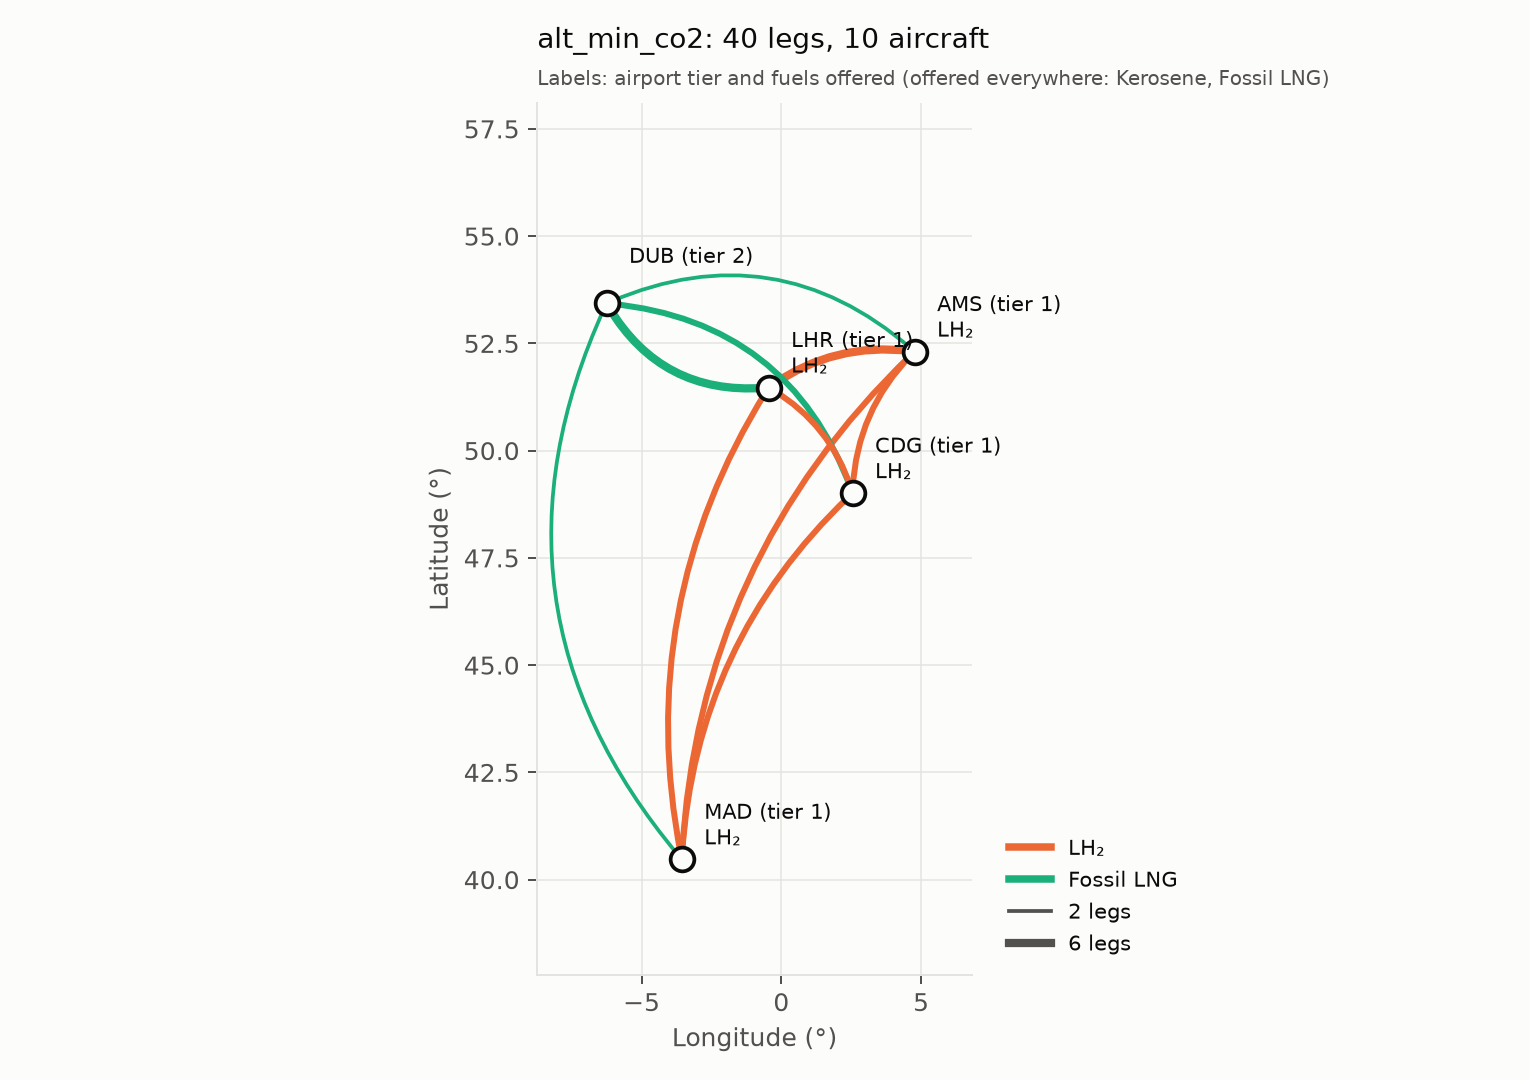
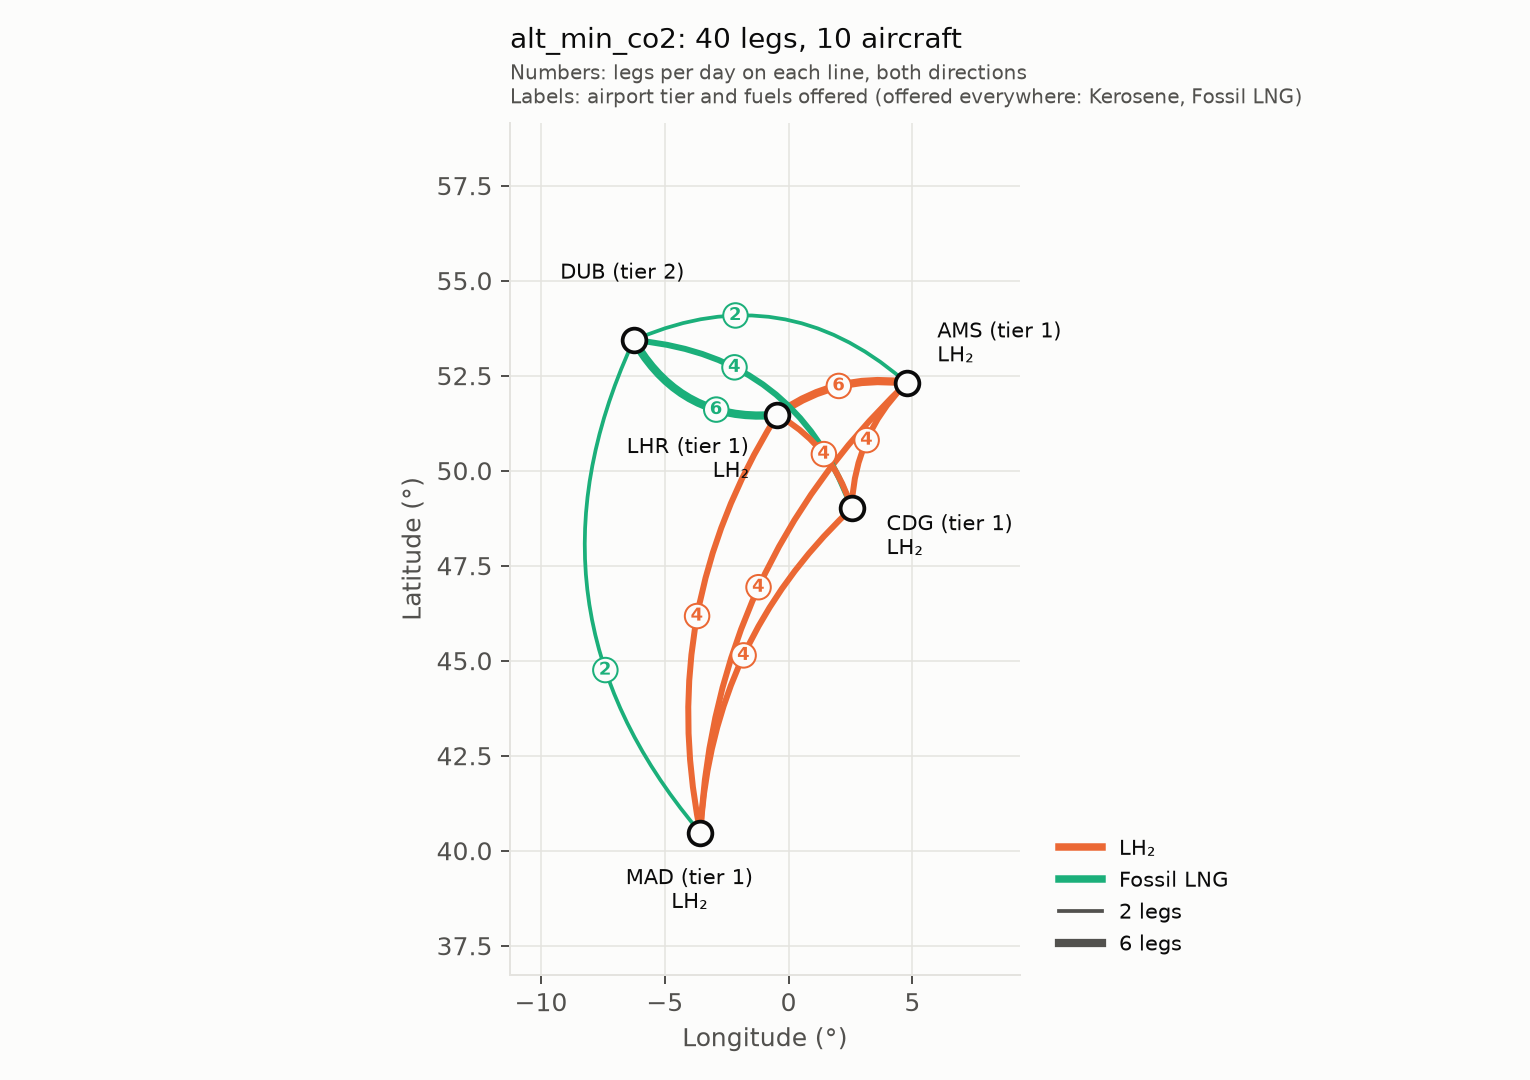
Split hourly cost, clearer figures, chains min-CO2 and sweep
- Hourly cost split into crew and maintenance per block hour (same for all
  types for now; LH2_MAINT_FACTOR ready for Hoelzen's +11%)
- Sweep chart shows each fuel separately; chains_carbon_200 gets a sweep;
  new chains_min_co2 scenario
- Network maps show legs per line; airport labels kept clear of lines
- Meeting figures in outputs/meeting_2026-11-05
- Spill test no longer depends on fuel prices
- Future work: capacity share rule, tankering with fuel bands, maintenance base

diff --git a/src/altfuel/plots.py b/src/altfuel/plots.py
@@ -12,6 +12,7 @@ from matplotlib.patches import FancyArrowPatch, Patch
 
 COLOURS = ["#2a78d6", "#eb6834", "#1baf7a", "#eda100", "#e87ba4", "#008300", "#6250d6", "#e34948"]
 BLACK, GREY, LIGHT_GREY, BACKGROUND = "#0b0b0b", "#52514e", "#e4e3df", "#fcfcfb"
+LABEL_DIRECTION = {"LHR": (-1, -0.7), "DUB": (-0.35, 1)}   # hand-placed for the dummy network
 UNITS = {"carbon_price": "USD per t CO₂", "yield_usd_per_pax_km": "USD per pax-km"}
 
 plt.rcParams.update({
@@ -41,24 +42,33 @@ def network_map(run):
     flown["pair"] = [tuple(sorted(p)) for p in zip(flown.origin, flown.destination)]
 
     fig, ax = plt.subplots(figsize=(8.5, 6))
+    lines = []
     for (pair, fuel), n in flown.groupby(["pair", "fuel"]).size().items():
         start = airports.loc[pair[0], ["lon", "lat"]].to_numpy()
         end = airports.loc[pair[1], ["lon", "lat"]].to_numpy()
         bend = 0.08 + 0.12 * fuels.index(fuel)     # so two fuels on one route don't overlap
         ax.add_patch(FancyArrowPatch(start, end, arrowstyle="-", color=colour[fuel], lw=0.6 + 0.45 * n,
                                      connectionstyle=f"arc3,rad={bend}"))
+        lines.append((start, end, bend, fuel, n))
     ax.scatter(airports.lon, airports.lat, s=90, c=BACKGROUND, edgecolors=BLACK, lw=1.5, zorder=3)
 
-    # Label each airport with its tier and the fuels it offers (except fuels offered everywhere)
+    # Label each airport with its tier and the fuels it offers (except fuels offered
+    # everywhere), on the side facing away from the middle of the network, where there
+    # are fewest lines. LABEL_DIRECTION overrides this for airports in the middle.
     everywhere = [f for f in fuels if run.airport_fuel.xs(f, level="fuel").available.all()]
+    middle = airports[["lon", "lat"]].mean().to_numpy()
     for station, airport in airports.iterrows():
         offered = [label[f] for f in fuels
                    if f not in everywhere and run.airport_fuel.loc[(station, f), "available"]]
+        away = np.array(LABEL_DIRECTION.get(station, [airport.lon, airport.lat] - middle), dtype=float)
+        away = away / np.hypot(*away)
+        ha = "center" if abs(away[0]) < 0.4 else ("left" if away[0] > 0 else "right")
         ax.annotate(f"{station} (tier {airport.tier})\n{' · '.join(offered)}", (airport.lon, airport.lat),
-                    xytext=(9, 6), textcoords="offset points", fontsize=8.5, zorder=4)
+                    xytext=14 * away, textcoords="offset points", fontsize=8.5, zorder=6,
+                    ha=ha, va="bottom" if away[1] >= 0 else "top", linespacing=1.1)
 
     ax.set_aspect(1 / np.cos(np.radians(airports.lat.mean())))
-    ax.margins(0.18)
+    ax.margins(x=0.4, y=0.25)
     ax.set_xlabel("Longitude (°)")
     ax.set_ylabel("Latitude (°)")
     add_grid(ax)
@@ -68,11 +78,28 @@ def network_map(run):
     ax.legend(handles=handles, loc="lower left", bbox_to_anchor=(1.04, 0), frameon=False, fontsize=8.5)
 
     ax.set_title(f"{run.scenario.name}: {run.kpis['legs_flown']} legs, {run.kpis['aircraft']} aircraft",
-                 loc="left", fontsize=11, pad=22)
+                 loc="left", fontsize=11, pad=30)
     note = f" (offered everywhere: {', '.join(label[f] for f in everywhere)})" if everywhere else ""
-    ax.text(0, 1.015, f"Labels: airport tier and fuels offered{note}", transform=ax.transAxes,
-            fontsize=8, color=GREY, va="bottom")
+    ax.text(0, 1.015, f"Numbers: legs per day on each line, both directions\n"
+                      f"Labels: airport tier and fuels offered{note}",
+            transform=ax.transAxes, fontsize=8, color=GREY, va="bottom")
     fig.tight_layout()
+
+    # Number of legs on each line, placed on its curve. The curves are bent in screen
+    # space, so positions are worked out there once the layout is final. Each fuel's
+    # number sits at a different point along the curve, so two fuels on a short route
+    # don't put their numbers on top of each other.
+    fig.canvas.draw()
+    to_screen, to_data = ax.transData, ax.transData.inverted()
+    for start, end, bend, fuel, n in lines:
+        a, b = to_screen.transform(start), to_screen.transform(end)
+        dx, dy = b - a
+        control = (a + b) / 2 + bend * np.array([dy, -dx])        # control point of the arc3 curve
+        t = 0.35 + 0.15 * (fuels.index(fuel) % 3)
+        point = (1 - t) ** 2 * a + 2 * (1 - t) * t * control + t ** 2 * b
+        ax.text(*to_data.transform(point), str(n), ha="center", va="center", fontsize=7,
+                color=colour[fuel], fontweight="bold", zorder=7,
+                bbox=dict(boxstyle="circle,pad=0.2", fc=BACKGROUND, ec=colour[fuel], lw=0.8))
     return fig
 
 
@@ -158,15 +185,20 @@ def scenario_comparison(runs):
     return fig
 
 
-def sweep_chart(sweep: pd.DataFrame, parameter: str, scenario_name: str):
-    """Share of legs not flown on kerosene, against the swept setting."""
+def sweep_chart(sweep: pd.DataFrame, parameter: str, scenario_name: str, fuels: pd.DataFrame):
+    """Share of legs flown on each fuel, against the swept setting."""
+    colour = fuel_colours(fuels)
     fig, ax = plt.subplots(figsize=(7, 4))
-    ax.plot(sweep[parameter], 100 * (1 - sweep["share_kerosene"]), color=COLOURS[1],
-            lw=2, marker="o", ms=8, mec=BACKGROUND, mew=2)
+    for fuel in colour:
+        share = sweep.get(f"share_{fuel}")
+        if share is not None and share.any():
+            ax.plot(sweep[parameter], 100 * share, color=colour[fuel], lw=2, marker="o", ms=7,
+                    mec=BACKGROUND, mew=2, label=fuels.label[fuel])
     unit = f" ({UNITS[parameter]})" if parameter in UNITS else ""
     ax.set_xlabel(parameter.replace("_", " ").capitalize() + unit)
-    ax.set_ylabel("Legs flown on alternative fuel (%)")
-    ax.set_ylim(0, 100)
+    ax.set_ylabel("Legs flown (%)")
+    ax.set_ylim(-3, 103)
+    ax.legend(frameon=False, fontsize=8.5)
     add_grid(ax)
     ax.set_title(f"Sweep of {parameter} ({scenario_name})", loc="left", fontsize=11)
     fig.tight_layout()

diff --git a/scripts/make_dummy_data.py b/scripts/make_dummy_data.py
@@ -34,6 +34,9 @@ FIRST_DEP, LAST_ARR = 390, 1350  # schedule window, minutes after midnight (06:3
 TIER = {"INT": 1, "MAJ": 2, "SMA": 3}   # placeholder until the tier 1-6 mapping is defined
 KER_PRICE_USD = 49.4e6    # new-delivery A320neo market value, IBA (Nov 2021)
 LH2_PRICE_FACTOR = 1.12   # +12% aircraft CAPEX, short-range LH2 aircraft (Hoelzen et al. 2022)
+CREW_PER_BLOCK_HOUR = 940          # USD, same for all types (from Hoelzen et al. 2022 salaries)
+MAINT_PER_BLOCK_HOUR = 2060        # USD, kerosene. Placeholder: keeps crew + maintenance at 3,000
+LH2_MAINT_FACTOR = 1.0             # same as kerosene for now; Hoelzen et al. 2022 give +11% (short-range)
 CRUISE_KMH = 830          # same for all types: Hoelzen et al. 2025 design Mach 0.78 for both
                           # kerosene and LH2 single-aisle designs; also used to time the schedule
 CHAIN_TURN = 60           # minutes on the ground between legs in the chains timetable
@@ -140,8 +143,8 @@ def build_aircraft_types():
     """Fuel burn is a linear fit (fixed + per km) to Henry's short-haul range-fuel
     curves as used by Hasan (aircraft_data.csv, R^2 > 0.999 over 0-3000 km).
     Methane: kerosene energy +10% (Rompokos et al. 2020) at LHV 50 MJ/kg.
-    Refuel pumps: narrowbody = 2 (Al-Timimi, after FlyZero). Hourly cost (crew +
-    maintenance per block hour): placeholder, same for all types until sourced.
+    Refuel pumps: narrowbody = 2 (Al-Timimi, after FlyZero). Crew cost is the same for
+    all types; maintenance is a placeholder base, also the same for all types for now.
     A type can instead use a burn-vs-distance table in fuel_burn.csv (see README)."""
     curves = read(RAW / "aircraft_data.csv")
     curves = curves[curves.range_km <= 3000]
@@ -151,15 +154,19 @@ def build_aircraft_types():
     ch4 = 1.10 * 43.2 / 50.0   # kerosene kg -> methane kg at +10% energy
     return pd.DataFrame([
         dict(type="KER-NB", fuel="kerosene", seats=SEATS, max_load_factor=LOAD_FACTOR,
-             range_km=6000, turn_min=40, refuel_pumps=2, cost_per_block_hour=3000, cruise_kmh=CRUISE_KMH,
+             range_km=6000, turn_min=40, refuel_pumps=2, cruise_kmh=CRUISE_KMH,
+             crew_cost_per_block_hour=CREW_PER_BLOCK_HOUR, maintenance_cost_per_block_hour=MAINT_PER_BLOCK_HOUR,
              price_usd=KER_PRICE_USD, fuel_kg_fixed=ker_fixed, fuel_kg_per_km=ker_per_km,
              source="A320-class; fuel: Sanford/Al-Timimi SH curve; turn: Akinola et al. 2025; price: IBA 2021"),
         dict(type="LH2-NB", fuel="lh2", seats=SEATS, max_load_factor=LOAD_FACTOR,
-             range_km=2778, turn_min=40, refuel_pumps=2, cost_per_block_hour=3000, cruise_kmh=CRUISE_KMH,
+             range_km=2778, turn_min=40, refuel_pumps=2, cruise_kmh=CRUISE_KMH,
+             crew_cost_per_block_hour=CREW_PER_BLOCK_HOUR,
+             maintenance_cost_per_block_hour=MAINT_PER_BLOCK_HOUR * LH2_MAINT_FACTOR,
              price_usd=KER_PRICE_USD * LH2_PRICE_FACTOR, fuel_kg_fixed=lh2_fixed, fuel_kg_per_km=lh2_per_km,
              source="Hoelzen et al. 2025 SA-1500 (1500 NM); fuel: Sanford/Al-Timimi SH curve; price +12% Hoelzen et al. 2022"),
         dict(type="CH4-NB", fuel="ch4", seats=SEATS, max_load_factor=LOAD_FACTOR,
-             range_km=5000, turn_min=40, refuel_pumps=2, cost_per_block_hour=3000, cruise_kmh=CRUISE_KMH,
+             range_km=5000, turn_min=40, refuel_pumps=2, cruise_kmh=CRUISE_KMH,
+             crew_cost_per_block_hour=CREW_PER_BLOCK_HOUR, maintenance_cost_per_block_hour=MAINT_PER_BLOCK_HOUR,
              price_usd=KER_PRICE_USD, fuel_kg_fixed=ker_fixed * ch4, fuel_kg_per_km=ker_per_km * ch4,
              source="Rompokos et al. 2020 LNG 737-800 retrofit (+10% energy); fuel ch4 = fossil LNG (switch to ch4_e for e-methane); range approx.; price: kerosene price, no LNG premium sourced (gap)"),
     ]).round(4)

diff --git a/src/altfuel/cost_revenue.py b/src/altfuel/cost_revenue.py
@@ -1,6 +1,7 @@
 """Module 5: the cost of each (type, leg), and of dropping a leg or owning an aircraft.
 
     c          = fuel cost + carbon cost + hourly cost + spilled passengers x fare
+    hourly     = block hours x (crew + maintenance cost per block hour)
     drop cost  = passengers x fare
     ownership  = aircraft price x (annuity + insurance) / 365, per aircraft per day
 
@@ -28,7 +29,8 @@ def add_costs(perf: pd.DataFrame, data: Data, airport_fuel: pd.DataFrame, sc: Sc
     share = data.fuels.carbon_price_share.reindex(p.fuel).to_numpy()
     p["carbon_cost_usd"] = p.co2_ttw_t * sc.carbon_price * share
 
-    hourly = data.aircraft_types.cost_per_block_hour.reindex(types).to_numpy()
+    aircraft = data.aircraft_types.reindex(types)
+    hourly = (aircraft.crew_cost_per_block_hour + aircraft.maintenance_cost_per_block_hour).to_numpy()
     p["hourly_cost_usd"] = p.block_min / 60 * hourly
     p["spill_cost_usd"] = p.spill_pax * fare_per_pax(data, sc).loc[leg_ids].to_numpy()
 

diff --git a/tests/test_model.py b/tests/test_model.py
@@ -231,7 +231,9 @@ def test_without_spill_a_small_aircraft_cannot_take_a_full_leg(data):
 
 
 def test_spill_is_charged_at_the_fare(data):
-    sc = replace(load_scenario("alt_carbon_200_spill"), fleet={"KER-NB": 30, "LH2-NB": 6})
+    # Only one type, with 150 seats, so full legs must spill
+    sc = replace(load_scenario("alt_carbon_200_spill"), fleet={"KER-NB": 30},
+                 aircraft_overrides={"KER-NB": {"seats": 150}})
     r = analysis.run(sc, data)
     spilled = r.flown[r.flown.spill_pax > 0]
     assert len(spilled) > 0

diff --git a/scripts/run_scenarios.py b/scripts/run_scenarios.py
@@ -46,7 +46,7 @@ def main():
             parameter = sc.sweep["parameter"]
             results = analysis.sweep(sc, parameter, sc.sweep["values"])
             results.round(3).to_csv(OUTPUT_DIR / f"sweep_{sc.name}_{parameter}.csv", index=False)
-            save(plots.sweep_chart(results, parameter, sc.name), f"sweep_{sc.name}_{parameter}")
+            save(plots.sweep_chart(results, parameter, sc.name, r.data.fuels), f"sweep_{sc.name}_{parameter}")
 
     analysis.compare(runs).round(3).to_csv(OUTPUT_DIR / "scenario_summary.csv")
 

diff --git a/docs/future_work.md b/docs/future_work.md
@@ -7,12 +7,13 @@ built are in `methods.md`.
 
 | Item | What | Notes |
 |---|---|---|
-| Tankering + boil-off | Fuel-state layers in the time-space network, so an aircraft can carry fuel for the return leg | Randeraad et al. (time-space-fuel network); Sirtori et al. (half-range rule). Default: no fuel held overnight (LH₂ aircraft end the day at LH₂ airports); optimistic case (held overnight) as a setting. `max_hold_min` unlimited until sourced. Multiplies model size ×3–5 |
+| Tankering + boil-off (chosen: fuel bands) | Time-space-fuel network (Randeraad et al.): each node also has a fuel state = range left on board, in bands (e.g. 0, 500, 1,000 … km; band size a scenario setting). A flight moves the aircraft from band s to s − its distance, rounded down to be safe; at an airport with the fuel it can refuel to any band up to full; at one without it can only use what's on board | Replaces "fuel at origin" (refuel before every departure). Checks distance exactly (to band size) for any chain of legs, so multi-leg tankering comes for free. Cost: extra fuel burnt to carry fuel (rule of thumb for kerosene ~2.5–4% of carried fuel per flight hour; LH₂ value to source, maybe Maria's data). Boil-off default: no fuel held overnight (wrap-round ground arcs only in the empty band), so LH₂ aircraft end the day at LH₂ airports; optimistic case (held overnight) as a setting. In-day `max_hold_min` unlimited until sourced. Size: × number of bands (LH₂ 2,778 km at 500 km ≈ 6), roughly 10–30 s at 2,000 legs. Mostly a network_builder change; the optimiser gets one balance constraint per band. Rejected: a 2-state "fuel for one more leg" version, which can't tell a short next leg from a long one |
 | Fleet stock-flow (module 4) | Fleet changes year by year (retirements, deliveries) instead of a fixed fleet per scenario | Rau, Dray, Sirtori, Oesingmann. Ownership would then be charged on the whole owned fleet |
-| Split hourly cost | Crew vs maintenance instead of one 3,000 $/h placeholder | Crew ≈ 940 $/block h from Hoelzen salaries; needs a sourced maintenance base (Hoelzen gives +11% for LH₂ but not the cost burden) |
+| Maintenance base | Source the kerosene maintenance cost per block hour (now a 2,060 $/h placeholder) and the methane difference | Split from crew is done (crew 940 $/h); maintenance is the same for all types for now. To apply: LH₂ +11% (Hoelzen et al. 2022) via `LH2_MAINT_FACTOR`, which moves LH₂'s entry from 200 to 250 $/t. A320-class engineering cost studies should give the base |
 | Spill recapture | Spilled passengers rebook onto other flights | Currently all lost, which overstates spill cost |
 | Maintenance routing | Rule that every aircraft returns to a maintenance base every ≤ N days; choose rotations to keep cycles short | Cycles are now reported (`day_cycles`) but come from a greedy matching. Becomes important with tankering: an LH₂ aircraft parked overnight at a non-LH₂ airport has the boil-off problem |
 | Schedule design (discuss with Maria) | Let the model choose which flights to operate, not just which type flies each: give it candidate flights (out-and-backs and chains) and require each airport pair's daily passengers to be carried by some of them | Lohatepanont & Barnhart 2004 (integrated schedule design and fleet assignment). Then LH₂ airport limits and turn times reshape the network itself, e.g. picking chains only where they beat back-and-forth. Bigger model: demand becomes a constraint and there are many more candidate flights |
+| Airport capacity share | Replace the flat 15% with a per-airport share: limit = airline's current share at that airport × the airport's capacity in that year | Shares are sticky because of EU slot grandfather rights (80/20 use-it-or-lose-it), so when a hub fills up everyone's growth stops, not just ours. Current share from OpenSky (airline movements ÷ all movements) or slot coordinator data (e.g. ACL); capacity from Henry's data plus planned expansions. Demand above the limit → spill, drops or Hasan's absorption factor. Rejected: residual capacity (capacity − other airlines' traffic), which squeezes our airline to zero at hubs as demand grows. Gaps in share data: simple regression on base/hub status, airport size, distance from base; sensitivity sweep on the share. `capacity_share` already accepts a dict, so this is a small change in `airport_capacity` |
 | Absorption factor | Overflow at a capacity-limited airport rerouted (Hasan) | Capacity is currently check or hard limit only |
 | Weekly schedules | Use `period_min: 10080` with real weekly timetables | Already supported and tested |
 
@@ -25,7 +26,7 @@ built are in `methods.md`.
 | Well-to-tank CO₂ per fuel and production route | Placeholder 0 (e-methane −2.75) |
 | Maria's fuel-burn curves | Drop into `fuel_burn.csv`; replaces the straight-line fit |
 | Airport tier mapping (1–6) and tier price factors | Placeholders |
-| Airline capacity share | Placeholder 15% |
+| Airline share of each airport's capacity | Placeholder 15%; method in the Model table above (current share × future capacity) |
 | Real timetable (OpenSky / ADS-B) | Replaces the dummy 40 legs |
 | Inputs on one year basis | Demand 2015, prices 2027/2050, aircraft price 2021 |
 
@@ -42,7 +43,7 @@ quantities is still to confirm with her; the likely replacements in `aircraft_ty
 | `seats` (180 for all) | Hoelzen 2025 design PAX | Her seat counts (LH₂ may lose seats to tanks) | Edit the CSV |
 | `cruise_kmh` (830 for all) | Hoelzen 2025, Mach 0.78 | Her cruise speeds | Edit the CSV; block times adjust automatically |
 
-Not expected from her (still to source elsewhere): `price_usd`, `cost_per_block_hour`,
+Not expected from her (still to source elsewhere): `price_usd`, crew and maintenance costs,
 `turn_min`, refuelling rates.
 
 ## Interactive exploration (marimo)

diff --git a/README.md b/README.md
@@ -53,7 +53,7 @@ Methane = fossil LNG (e-methane available as a switch).
 | `baseline` (kerosene) | 9 | 100 / 0 / 0% | — | — |
 | `alt_min_energy` | 9 | 100 / 0 / 0% | 0% | 0% |
 | `alt_carbon_200` | 9 | 0 / 35 / 65% | −54% | +18% |
-| `alt_carbon_200_emethane` | 9 | 45 / 55 / 0% | −59% | +21% |
+| `alt_carbon_200_emethane` (methane aircraft on e-methane) | 9 | 45 / 55 / 0% | −59% | +21% |
 | `alt_carbon_200_spill` (150-seat LH₂, spill allowed) | 9 | 5 / 25 / 70% | −38% | +18% |
 | `alt_carbon_200_drop` (legs may be dropped) | 5 | 0 / 0 / 100% | −41% | +6% |
 | `alt_min_co2` | 10 | 0 / 65 / 35% | −72% | +16% |
@@ -65,6 +65,8 @@ Total cost = operating cost + aircraft ownership + revenue lost to spilled passe
   sourced price premium for LNG aircraft yet (it's 0%). At +5% the LNG share halves,
   and at +12% it disappears, so methane results shouldn't be used until this is sourced.
 - LH₂ takes over from LNG as the carbon price rises: 35% of legs at 200 USD/t, 55% from 300 USD/t.
+  The switch point is sensitive to placeholder costs: LH₂'s +11% maintenance (Hoelzen et al. 2022,
+  not applied yet) would move it to 250 USD/t.
 - e-methane (29 USD/GJ) costs more than LH₂ (21 USD/GJ), so it isn't chosen at these prices.
 - Airport capacity doesn't bind on this network.
 - A second timetable, `data/dummy_chains/` (`chains_*` scenarios), has aircraft ending the

diff --git a/docs/methods.md b/docs/methods.md
@@ -44,7 +44,8 @@ Module numbers follow the planning sheet (FYP_Papers.xlsx, "Code modules").
 | Fare (yield) | 0.148 USD per pax-km | Proesmans et al. 2023, Table 3 |
 | Cruise speed (all types) | 830 km/h | Hoelzen et al. 2025: design Mach 0.78 for kerosene and LH2 single-aisle designs |
 | Well-to-tank CO2 | 0 (placeholder) | To source per fuel and production route (fossil LNG vs e-methane; grey vs green LH2) |
-| Hourly cost (crew + maintenance) | 3,000 USD/block hour, all types | Placeholder. Hoelzen et al. 2022 give +11% maintenance for LH2 (short-range) and Thorbeck's per-flight equations, but not the cost burden B needed to use them |
+| Crew cost | 940 USD/block hour, all types | Derived from Hoelzen et al. 2022 salaries. Same for every type, so it only matters for dropped legs and fleet-size differences |
+| Maintenance cost | 2,060 USD/block hour, all types | Placeholder (keeps crew + maintenance at 3,000). Differences not applied yet: Hoelzen et al. 2022 give +11% for LH₂ (short-range), which moves LH₂'s entry from 200 to 250 USD/t; methane difference not sourced |
 | Base turn time | 40 min | Akinola et al. 2025 (short turnaround) |
 | LH2 refuel: plug in/out, flow | 5 + 4 min, 2 pumps × 5 kg/s | Al-Timimi (`parameters.py`) |
 | Kerosene refuel: plug in/out, flow | 2 + 2 min, 2 pumps × 20 kg/s | Al-Timimi |

diff --git a/docs/code_guide.md b/docs/code_guide.md
@@ -34,7 +34,7 @@ LHR→CDG→MAD→LHR, where aircraft end the day away from where they started; 
 |---|---|
 | `airports.csv` | Station, coordinates, tier, runways, stands, hourly runway capacity (Henry's database) |
 | `legs.csv` | The timetable: `leg_id`, origin, destination, `dep_min`, `arr_min` (minutes from the start of the period), distance, passengers, and optionally `fare_usd` |
-| `aircraft_types.csv` | Per type: fuel, seats, max load factor, range, turn time, refuel pumps, cost per block hour, cruise speed, price, fuel burn (`fuel_kg_fixed + fuel_kg_per_km × distance`) |
+| `aircraft_types.csv` | Per type: fuel, seats, max load factor, range, turn time, refuel pumps, crew and maintenance cost per block hour, cruise speed, price, fuel burn (`fuel_kg_fixed + fuel_kg_per_km × distance`) |
 | `fuel_burn.csv` | Optional. A fuel-vs-distance table for any type that shouldn't use the straight line (e.g. Maria's curves) |
 | `fuels.csv` | Per fuel: energy content, CO₂ when burnt, default well-to-tank CO₂, share of CO₂ that pays the carbon price, price, which tiers have it by default, refuelling rates. Rows: kerosene, LH₂, fossil LNG (`ch4`), e-methane (`ch4_e`) |
 
